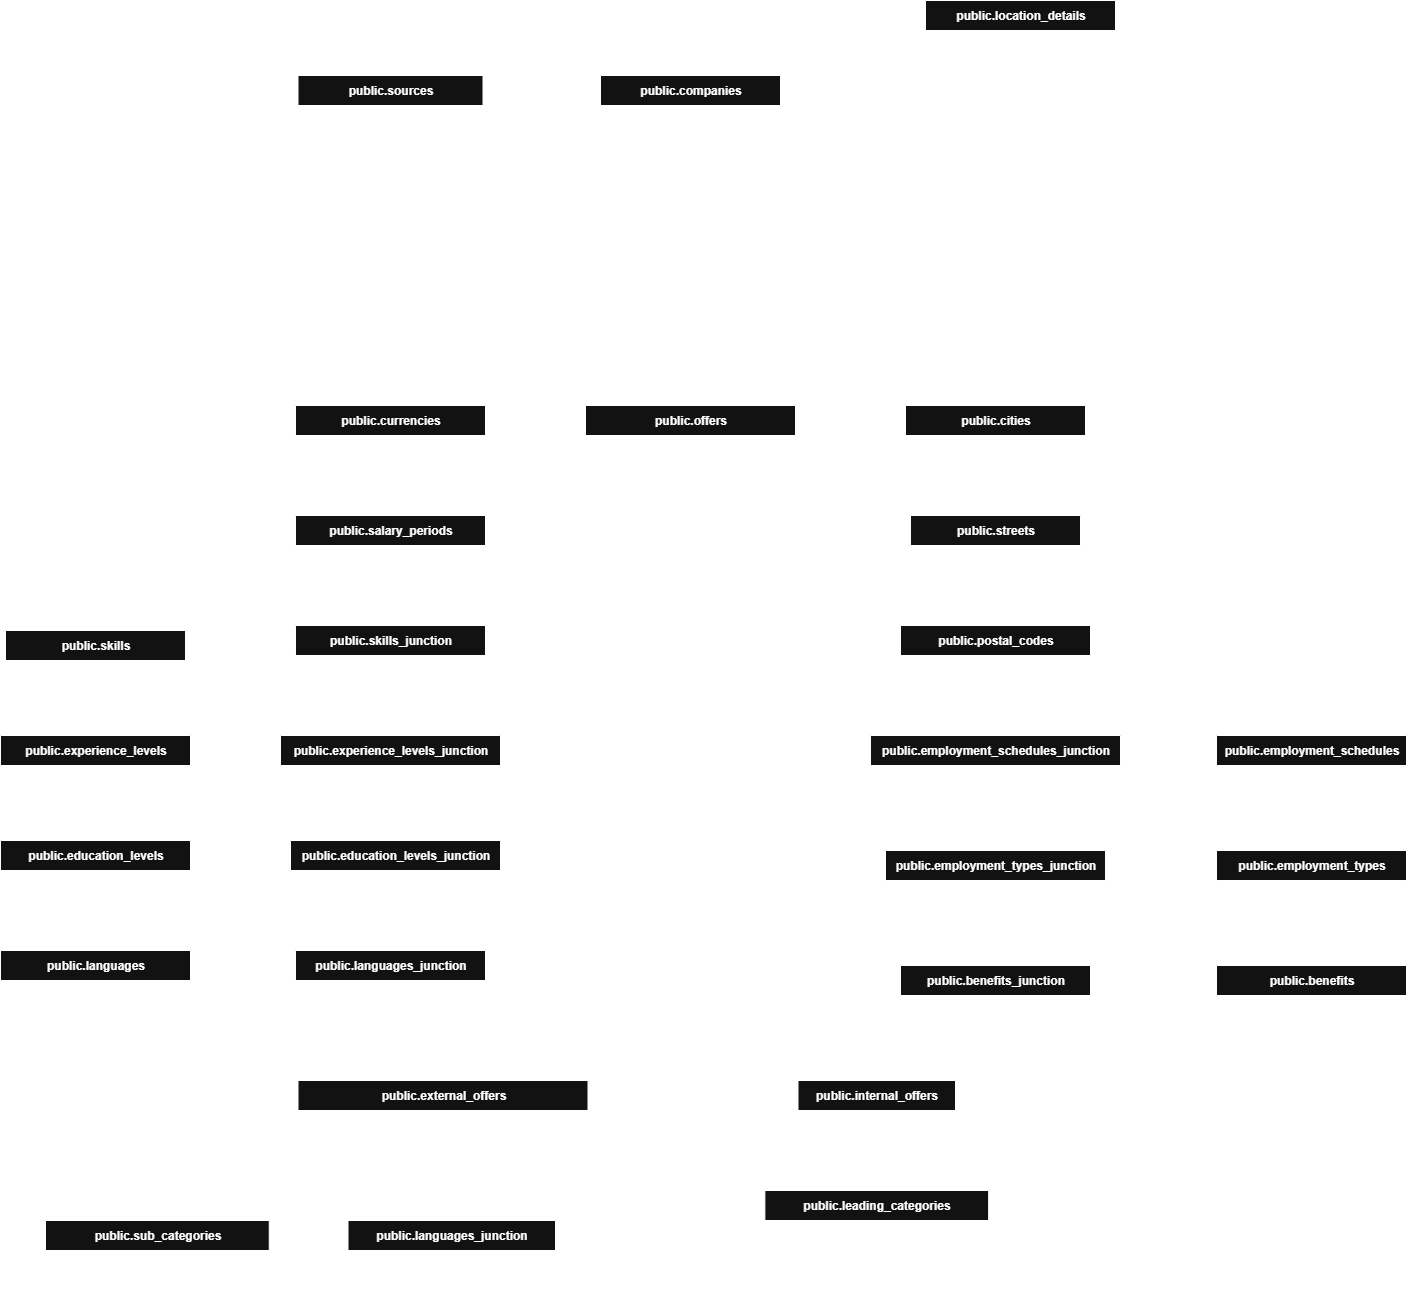
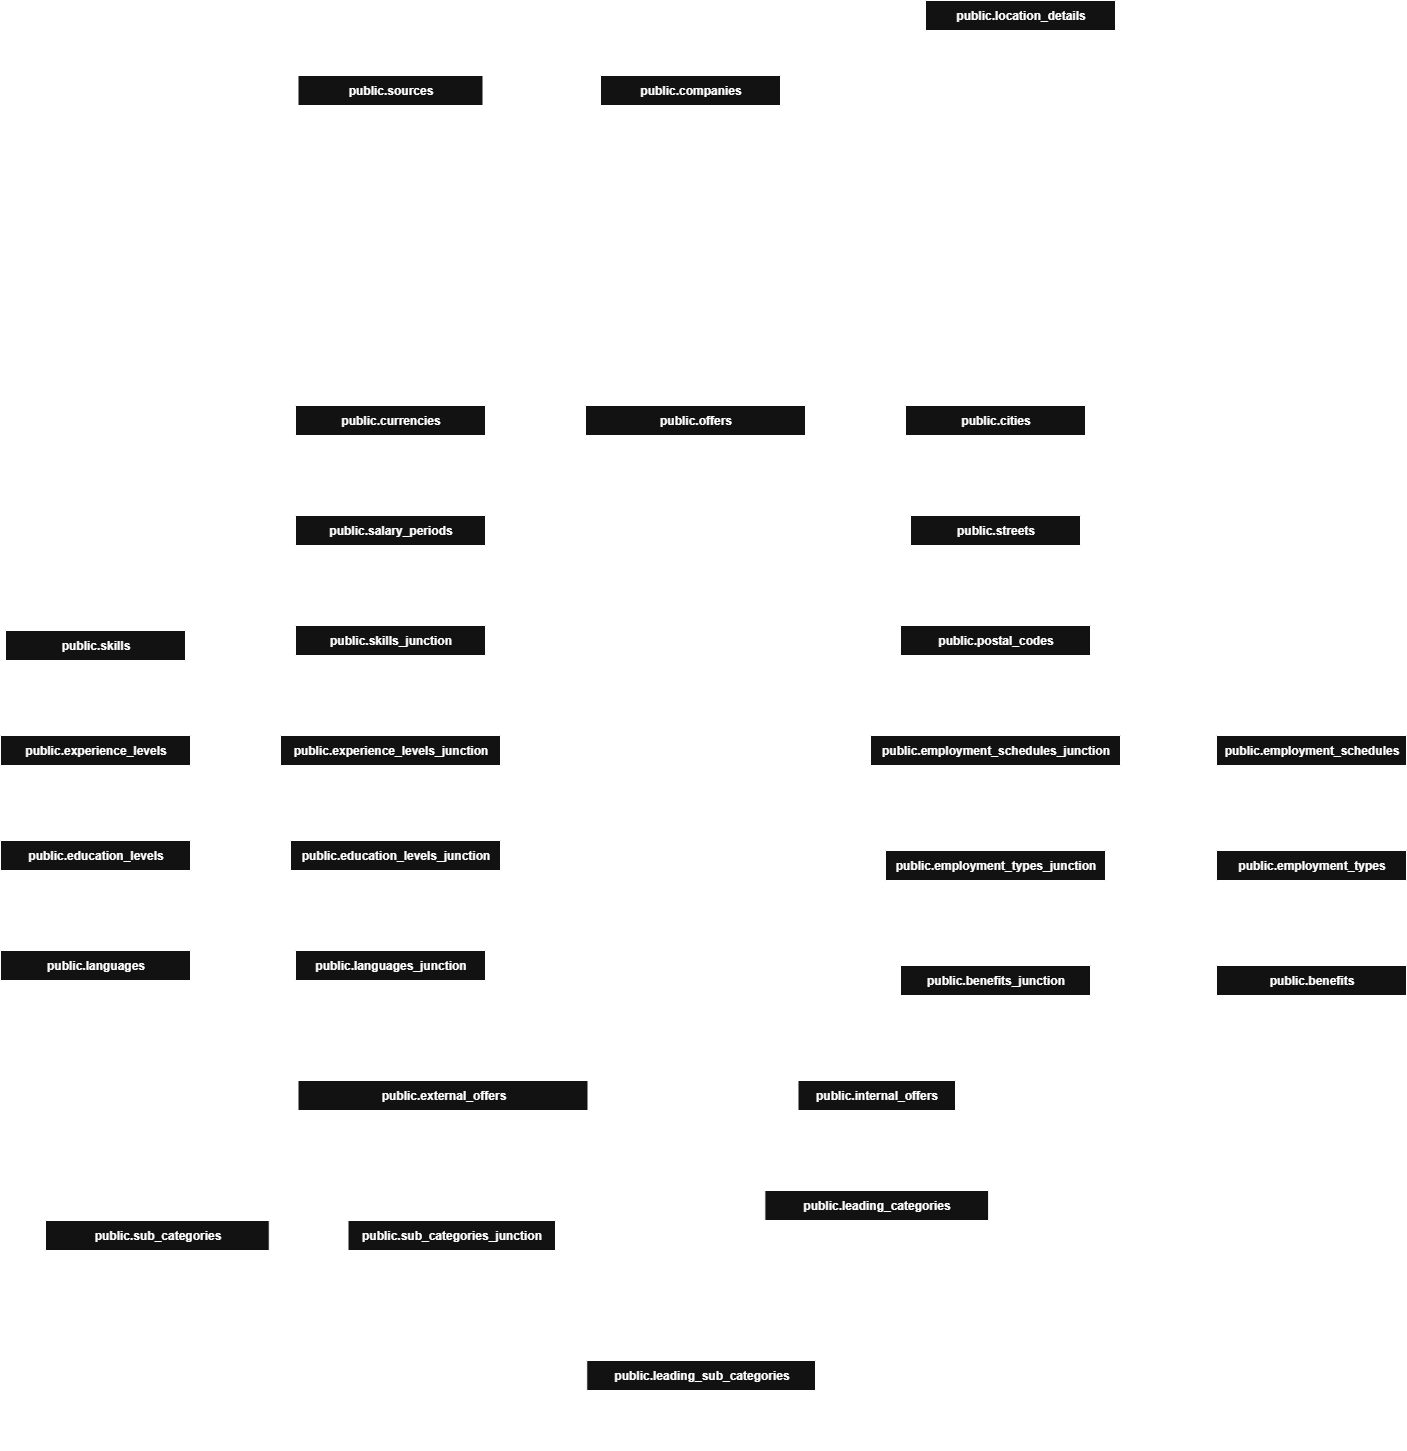
Update universal offer schema in readme. Removed old architecture schemas in readme. Fixed errors in database schema v1.1.

diff --git a/README.md b/README.md
@@ -80,16 +80,16 @@ https://docs.google.com/document/d/1mnvTexeT-fP2AOvFTb8ArKLz-O7-UmGf/edit?usp=sh
     "requirements": {
         "skills": [
             {
-                name: "",
-                years: null
+                "skill": "",
+                "experienceYears": null,
+                "experienceLevel": null
             }
         ],
         "education": null,
-        "experienceLevel": null, 
         "languages": [
             {
-                name: "",
-                level: ""
+                "language": "",
+                "level": ""
             }
         ]
     },
@@ -136,10 +136,14 @@ https://docs.google.com/document/d/1mnvTexeT-fP2AOvFTb8ArKLz-O7-UmGf/edit?usp=sh
     - `leadingCategory`: *string* - Main offer category **(e.g. Information-Technology, Healthcare, Finance)**.
     - `subCategories`: *array|null* - offer categories **(e.g. ["Programming", "Architecture", "Designing"])** *(optional)*.
 - `requirements`: *object* - Work requirements:
-    - `skills`: *array|null* - Required skills **(e.g. [{"C++", 2}, {"Django", null}, {Driver's license, null}])** *(optional)*.
-    - `experienceLevel`: *array|null* - Required experience level **(e.g. ["Senior", "Intermediate"])** *(optional)*.
+    - `skills`: *array|null* - Required skills *(optional)*.
+        - `skill`: *string* - Skill name **(e.g. "C++", "Django", "Driver's license")**
+        - `experienceYears`: *number|null* - Required years of experience *(optional)*.
+        - `experienceLevel`: *array|null* - Required experience level **(e.g. ["Senior", "Intermediate"])** *(optional)*.
     - `education`: *array|null* - Required education **(e.g. ["Bachelor's degree", "CCNA"])** *(optional)*.
-    - `languages`: *array|null* - Required languages **(e.g. [{"English", "C1"}, {"Polish", "A2"}])** *(optional)*.
+    - `languages`: *array|null* - Required languages *(optional)*.
+        - `language`: *string* - Language name **(e.g. English, German)**.
+        - `level`: *string* - Language mastery level **(e.g. A2, C1)**
 - `employment`: *object* - Employment details:
     - `types`: *array* - Type of employment contract **(e.g. ["Contract of mandate", "B2B"])**.
     - `schedules`: *array* - Work schedule **(e.g. ["Full-time", "Part-time"])**.
@@ -181,28 +185,65 @@ https://docs.google.com/document/d/1mnvTexeT-fP2AOvFTb8ArKLz-O7-UmGf/edit?usp=sh
         "isRemote": null,
         "isHybrid": true
     },
-    "categories": {
-        "leadingCategory": null,
-        "subCategories": null
+    "category": {
+        "leadingCategory": "Information-Technology",
+        "subCategories": ["Programming", "Backend Development"]
     },
     "requirements": {
-        "skills": [
-            {"Python", 2},
-            {"Django", 1},
-            {"FastAPI", null},
-            {"Web Services", null},
-            {"http", null},
-            {"REST", null},
-            {"SQL", null},
-            {"ORM", null},
-            {"Celery", null}
-        ],
-        "experienceLevel": [
-            "Specjalista (Mid / Regular)",
-            "Starszy specjalista (Senior)"
+    "skills": [
+        {
+            "skill": "Python",
+            "experienceYears": 2,
+            "experienceLevel": ["Mid"]
+        },
+        {
+            "skill": "Django",
+            "experienceYears": 1,
+            "experienceLevel": ["Junior", "Mid"]
+        },
+        {
+            "skill": "FastAPI",
+            "experienceYears": null,
+            "experienceLevel": ["Mid"]
+        },
+        {
+            "skill": "Web Services",
+            "experienceYears": null,
+            "experienceLevel": ["Mid", "Senior"]
+        },
+        {
+            "skill": "HTTP",
+            "experienceYears": null,
+            "experienceLevel": ["Mid"]
+        },
+        {
+            "skill": "REST",
+            "experienceYears": null,
+            "experienceLevel": ["Mid"]
+        },
+        {
+            "skill": "SQL",
+            "experienceYears": 1,
+            "experienceLevel": ["Mid"]
+        },
+        {
+            "skill": "ORM",
+            "experienceYears": null,
+            "experienceLevel": ["Mid"]
+        },
+        {
+            "skill": "Celery",
+            "experienceYears": null,
+            "experienceLevel": ["Mid"]
+        }
         ],
         "education": null,
-        "languages": null
+        "languages": [
+            {
+                "language": "English",
+                "level": "B2"
+            }
+        ]
     },
     "employment": {
         "types": [
@@ -226,16 +267,5 @@ https://docs.google.com/document/d/1mnvTexeT-fP2AOvFTb8ArKLz-O7-UmGf/edit?usp=sh
 #### With database backup and logging service ####
 ![App schema v2.1](diagrams/images/app_schema_v2.1.png)
 
-### Second revision of application project schema ###
-![App schema v2](diagrams/images/app_schema_v2.png)
-
-
-#### Offers gathering schema ####
-![App schema v2](diagrams/images/app_schema_v2_details.png)
-
 **Icons used in the diagrams:**
 [react-wordmark](https://icon-sets.iconify.design/devicon/?icon-filter=react-wordmark), [dotnetcore](https://icon-sets.iconify.design/devicon/?icon-filter=dotnetcore), and [postgresql-wordmark](https://icon-sets.iconify.design/devicon/?icon-filter=postgresql-wordmark) icons by konpa, licensed under the MIT License.
-
-
-### First revision of application project schema ###
-![App schema](diagrams/images/StrukturaAplikacjiTech.png)
